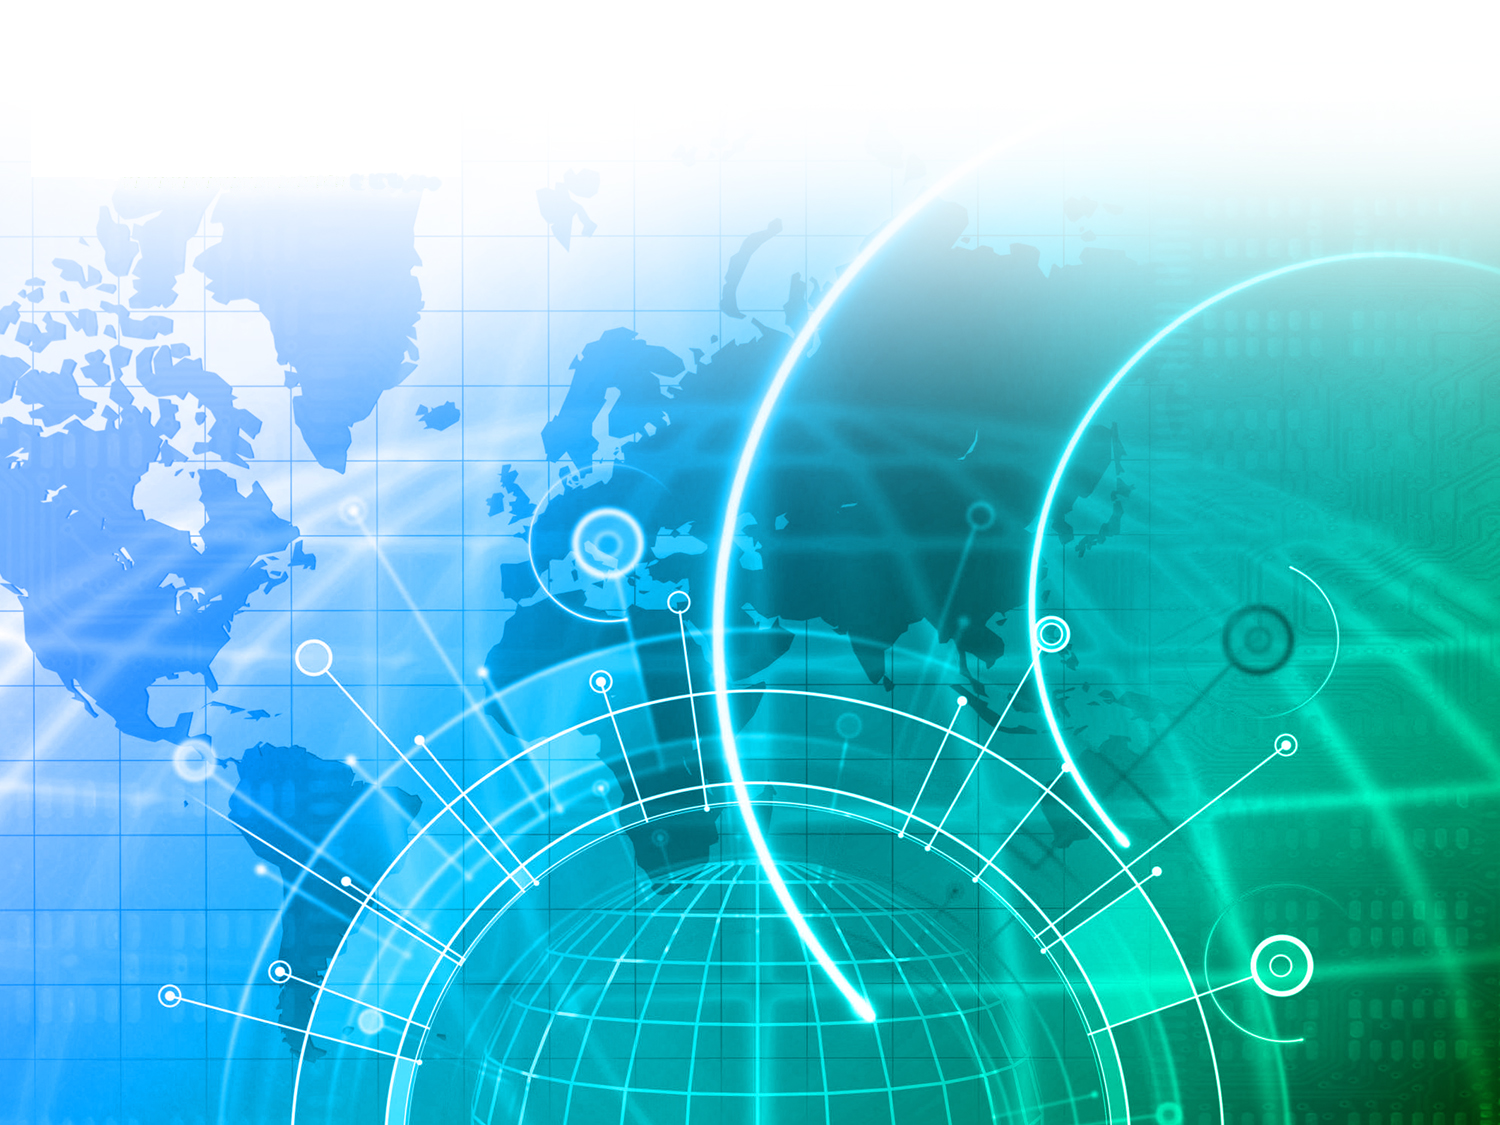
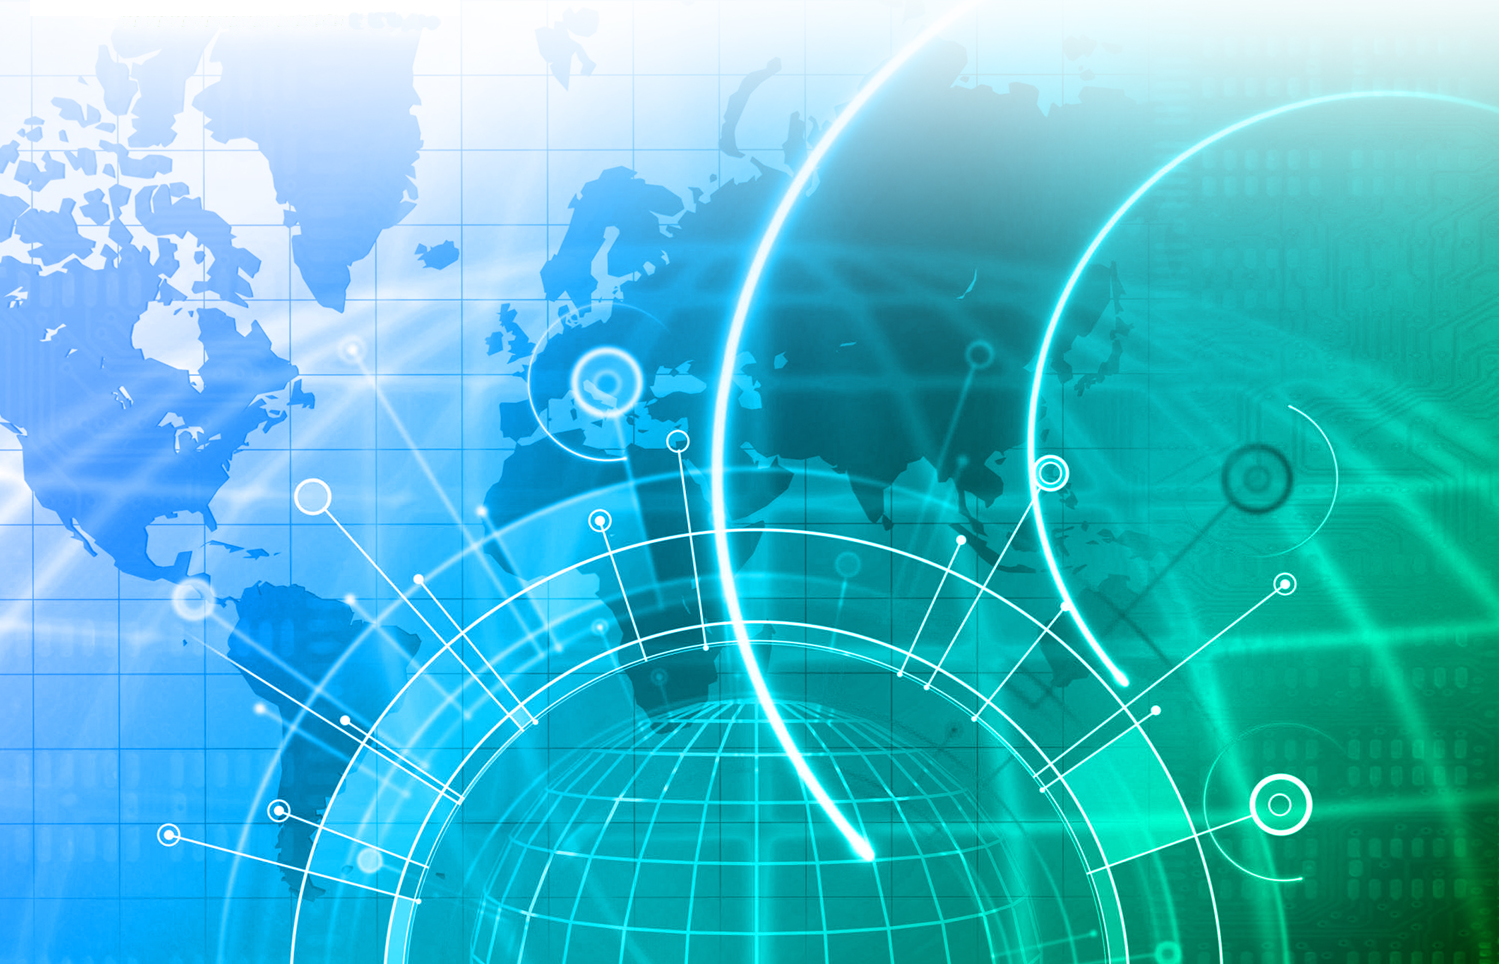
Update: 1.) Changed background 2.) Changed formating to work with phones

diff --git a/index.html b/index.html
@@ -6,7 +6,14 @@
 -->
 <html>
 <style>
+.is-grouped {   
+    display: inline-block;
+    <!--background-color: yellow;-->
+}
 
+.is-grouped > .button:not(:last-child) {
+    margin-right: 10px;
+}
 </style>
 	<head>
 		<title>Matt Irwin</title>
@@ -42,8 +49,10 @@
 					</div>
 				</header>
 				<center style="background: white;">
+					<div class='is-grouped'>
 					<a href="#background" class="button scrolly" style="background: rgba(0,160,180,1);">About Me</a> 
 					<a href="#second" class="button scrolly" style="background: rgba(0,160,180,1);">Mods</a>
+					<div/>
 				</center>
 				<br/>
 				<br/>
@@ -54,7 +63,7 @@
 					<div class="row"> 
 					  <div class="4u 12u(narrow)"> 
 						<section> 
-						  <h3><img src="images/profile.jpg" alt="" style="width: 100%; height: 100%"/></h3> 
+						  <h3><img src="images/profile.jpg" alt="" style="max-width: 75%; height: auto; width: auto\9;"/></h3> 
 						  <p>My name is Matt Irwin. I am a junior in computer science at Purdue university. I have tracks in Software
 						  Engineering and Security. I also will be receiving a certification in Entrepreneurship upon my graduation date in Spring of 2019.</p> 
 						  <p>Most of my days are hunched over a computer but in my few moments of free time my hobbies include writing, singing, modding and lots of video games.</p> 
